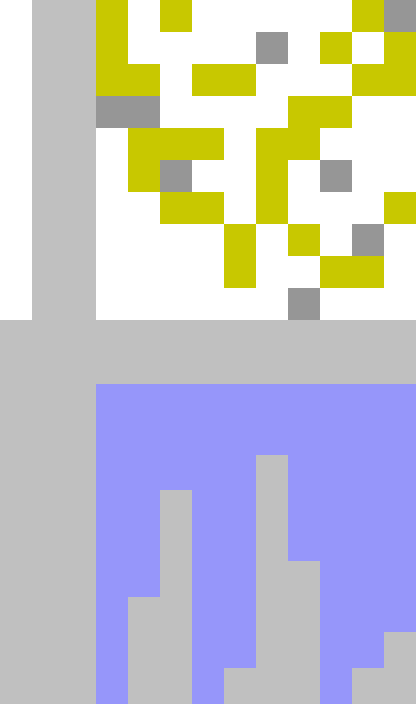
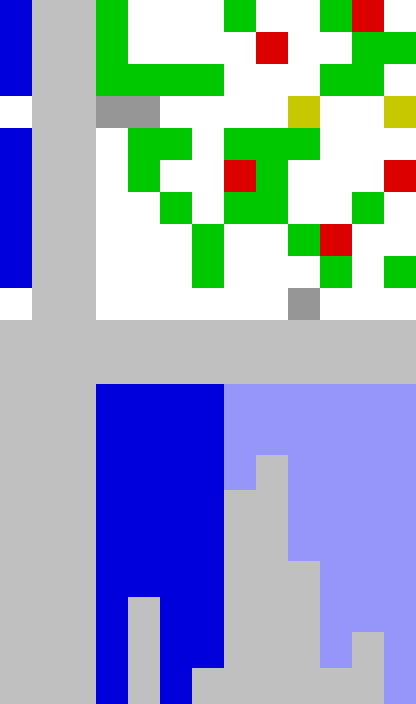
3c and 3d

diff --git a/Assignment1/Pizza/src/Pizza.java b/Assignment1/Pizza/src/Pizza.java
@@ -11,11 +11,11 @@ import java.util.TreeSet;
 public class Pizza {
 
 	public static void main(String[] args) {
-		String dataset = "medium"; // choose the dataset
+		String dataset = "difficult"; // choose the dataset
 		PizzaInstance inst = new PizzaInstance("data/" + dataset + ".txt"); // load the problem instance
 		PizzaSolution sol = new PizzaSolution(inst, false); // initialize a (random) solution
-		//randomIterativeImprovement(inst, sol, 100000); // perform iterative improvement
-		sol = tabuSearch(inst, sol, 100); // perform tabu search
+		randomIterativeImprovement(inst, sol, 100000); // perform iterative improvement
+		//sol = tabuSearch(inst, sol, 100); // perform tabu search
 		//simAnnealing(inst, sol, 1000000); // perform simulated annealing
 		//bestSimAnnealing(inst, sol, 1000000); // perform improved simulated annealing
 		System.out.println("Cost = " + sol.getCost()); // output the cost
@@ -23,9 +23,7 @@ public class Pizza {
 		sol.visualize("figures/" + dataset + ".png", true); // visualize the solution
 	}
 
-	
-	
-	
+
 	// perform random iterative improvement for [nIter] iterations (solution will be changed!)
 	public static void randomIterativeImprovement(PizzaInstance inst, PizzaSolution sol, int nIter) {
 		
@@ -119,28 +117,78 @@ public class Pizza {
 		return bestSol;
 	}
 
-	
-	
-	
-	
 	// perform simulated annealing, where [nIter] is the number of iterations
 	// you may add more parameters if you wish (e.g. temperature settings, etc.)
 	public static void simAnnealing(PizzaInstance inst, PizzaSolution sol, int nIter) {
-		
-		// TODO
-		
+		Random rand = new Random();
+
+		double initTemp = 1000;
+		double finalTemp = 0.1;
+		double alpha = Math.pow((finalTemp / initTemp), (1.0 / nIter));
+
+		double currentTemp = initTemp;
+
+		while (currentTemp > finalTemp) {
+			double x = sol.getCost();
+
+			// Apply random move
+			int a = rand.nextInt(inst.M);
+			sol.swapIngredient(a);
+			double costDiff = x - sol.getCost();
+
+			int u = rand.nextInt(2);
+
+			if (u >= Math.min(1, Math.exp(-costDiff / currentTemp ))) {
+				sol.undoSwapIngredient(a);
+			}
+
+			currentTemp = currentTemp * alpha;
+		}
 	}
-	
-	
-	
+
+
+
 	// perform improved (!) simulated annealing, where [nIter] is the number of iterations
 	// you may add more parameters if you wish (e.g. temperature settings, etc.)
 	public static void bestSimAnnealing(PizzaInstance inst, PizzaSolution sol, int nIter) {
-		
-		// TODO
-		
+		Random rand = new Random();
+
+		double avgCost = 0.0;
+		for (int i = 0; i < 100; i++) {
+			int q = rand.nextInt(inst.M);
+			sol.swapIngredient(q);
+			avgCost = sol.getSmoothCost();
+			sol.undoSwapIngredient(q);
+		}
+		avgCost = avgCost / 100.0;
+
+		double initTemp = (-1.0 * avgCost) / Math.log(0.5);
+		double finalTemp = (-1.0 * avgCost / Math.log(Math.pow(10, -3)));
+		double alpha = Math.pow((finalTemp / initTemp), (1.0 / nIter));
+
+//		System.out.println(avgCost);
+//		System.out.println(initTemp);
+//		System.out.println(finalTemp);
+
+		double currentTemp = initTemp;
+
+		while (currentTemp > finalTemp) {
+			double x = sol.getSmoothCost();
+
+			// Apply random move
+			int a = rand.nextInt(inst.M);
+			sol.swapIngredient(a);
+			double costDiff = x - sol.getSmoothCost();
+
+			int u = rand.nextInt(2);
+
+			if (costDiff > 0) {
+				if (u >= Math.min(1, Math.exp(-costDiff / currentTemp ))) {
+					sol.undoSwapIngredient(a);
+				}
+			}
+
+			currentTemp = currentTemp * alpha;
+		}
 	}
-	
-	
-	
 }
